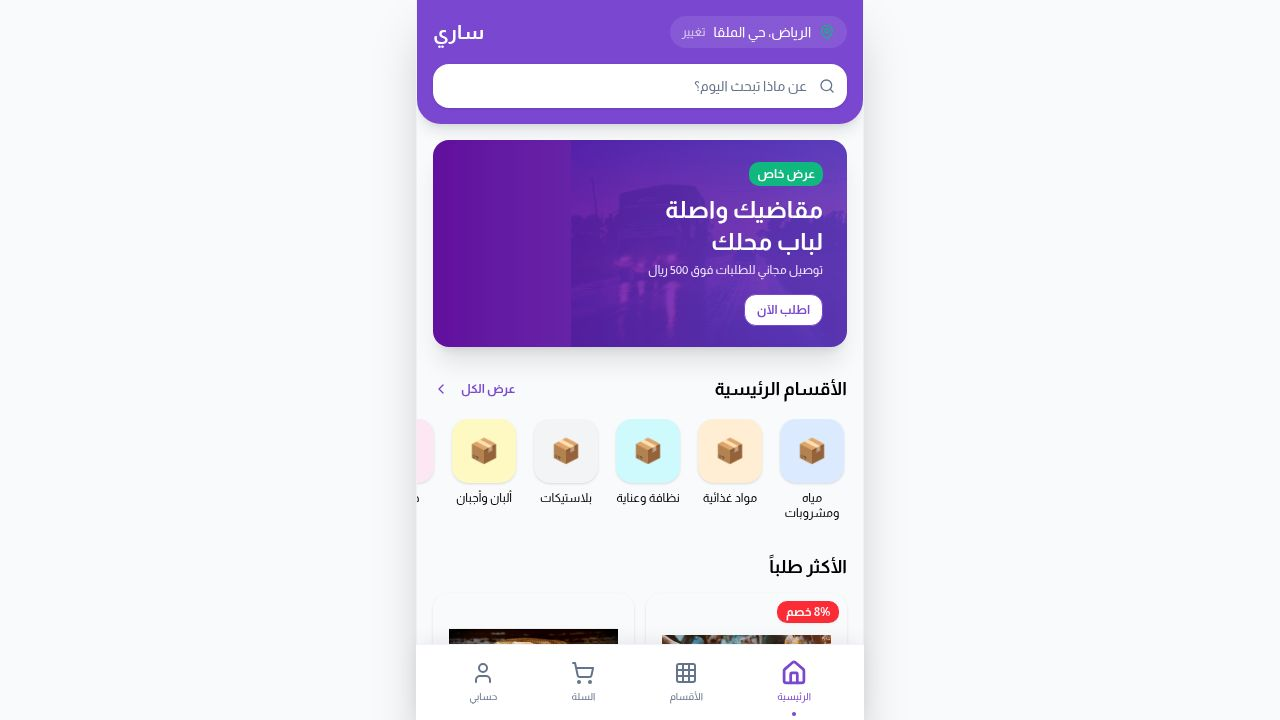
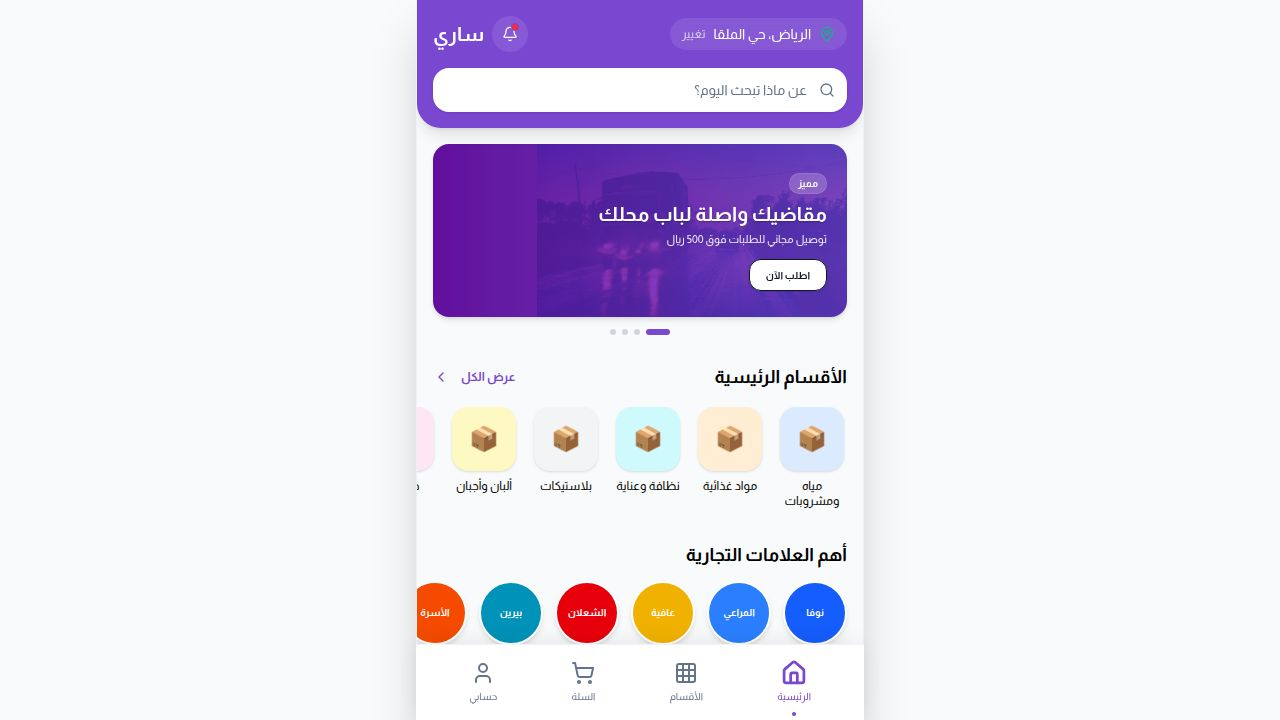
Add brand browsing and filtering to the e-commerce platform
Introduce brand data, display a brand carousel on the home page, and add brand filtering to the search results page.

Replit-Commit-Author: Agent
Replit-Commit-Session-Id: 44125b8b-fc80-4fe7-b93c-ca1d4de664b7
Replit-Commit-Checkpoint-Type: full_checkpoint
Replit-Commit-Event-Id: c1fdbe93-8a12-48e0-b5e1-4a4caefc75fa
Replit-Commit-Screenshot-Url: https://storage.googleapis.com/screenshot-production-us-central1/3b05fab1-201a-4d38-8a34-334b9398aef9/44125b8b-fc80-4fe7-b93c-ca1d4de664b7/hbSGDa6
Replit-Helium-Checkpoint-Created: true

Changed region(s): [[0.3125, 0.0306, 0.6875, 0.4889], [0.3438, 0.5194, 0.6875, 0.7333], [0.3125, 0.7639, 0.6875, 0.9167]]

diff --git a/client/src/pages/Home.tsx b/client/src/pages/Home.tsx
@@ -1,6 +1,6 @@
 import { MobileLayout } from '@/components/layout/MobileLayout';
 import { ProductCard } from '@/components/ui/ProductCard';
-import { CATEGORIES, PRODUCTS } from '@/lib/data';
+import { CATEGORIES, PRODUCTS, BRANDS } from '@/lib/data';
 import { Button } from '@/components/ui/button';
 import { ChevronLeft } from 'lucide-react';
 import { AdsCarousel } from '@/components/ui/AdsCarousel';
@@ -33,6 +33,22 @@ export default function Home() {
                 </div>
                 <span className="text-xs font-medium text-center leading-tight">{cat.name}</span>
               </div>
+            ))}
+          </div>
+        </div>
+
+        {/* Brands Section */}
+        <div>
+           <div className="flex items-center justify-between px-4 mb-3">
+            <h3 className="font-bold text-lg">أهم العلامات التجارية</h3>
+          </div>
+          <div className="flex overflow-x-auto px-4 gap-3 no-scrollbar pb-2">
+            {BRANDS.map((brand) => (
+               <div key={brand.id} className="flex-shrink-0 flex flex-col items-center gap-1 cursor-pointer w-16">
+                 <div className={`w-16 h-16 rounded-full flex items-center justify-center shadow-md border-2 border-white ${brand.logo} text-center`}>
+                   <span className="font-bold text-[10px] px-1">{brand.name}</span>
+                 </div>
+               </div>
             ))}
           </div>
         </div>

diff --git a/client/src/pages/SearchResults.tsx b/client/src/pages/SearchResults.tsx
@@ -1,6 +1,6 @@
 import { MobileLayout } from '@/components/layout/MobileLayout';
 import { ProductCard } from '@/components/ui/ProductCard';
-import { PRODUCTS } from '@/lib/data';
+import { PRODUCTS, BRANDS } from '@/lib/data';
 import { useRoute } from 'wouter';
 import { Search, SlidersHorizontal } from 'lucide-react';
 import { Button } from '@/components/ui/button';
@@ -35,9 +35,9 @@ export default function SearchResults() {
           
           <div className="mt-3 flex items-center gap-2 overflow-x-auto no-scrollbar pb-1">
             <Button size="sm" variant="secondary" className="rounded-full text-xs h-8 bg-primary text-white hover:bg-primary/90">الكل</Button>
-            <Button size="sm" variant="outline" className="rounded-full text-xs h-8 border-gray-200">الأكثر مبيعاً</Button>
-            <Button size="sm" variant="outline" className="rounded-full text-xs h-8 border-gray-200">الأقل سعراً</Button>
-            <Button size="sm" variant="outline" className="rounded-full text-xs h-8 border-gray-200">عروض</Button>
+            {BRANDS.slice(0, 4).map(brand => (
+               <Button key={brand.id} size="sm" variant="outline" className="rounded-full text-xs h-8 border-gray-200">{brand.name}</Button>
+            ))}
           </div>
         </div>
 

diff --git a/client/src/lib/data.ts b/client/src/lib/data.ts
@@ -30,6 +30,21 @@ export const CATEGORIES: Category[] = [
   { id: 'sweets', name: 'حلويات', icon: 'candy', color: 'bg-pink-100 text-pink-600' },
 ];
 
+export interface Brand {
+  id: string;
+  name: string;
+  logo: string; // Placeholder color or text for now
+}
+
+export const BRANDS: Brand[] = [
+  { id: 'nova', name: 'نوفا', logo: 'bg-blue-600 text-white' },
+  { id: 'almarai', name: 'المراعي', logo: 'bg-blue-500 text-white' },
+  { id: 'afia', name: 'عافية', logo: 'bg-yellow-500 text-white' },
+  { id: 'shalan', name: 'الشعلان', logo: 'bg-red-600 text-white' },
+  { id: 'berain', name: 'بيرين', logo: 'bg-cyan-600 text-white' },
+  { id: 'osra', name: 'الأسرة', logo: 'bg-orange-600 text-white' },
+];
+
 export const PRODUCTS: Product[] = [
   {
     id: '1',
